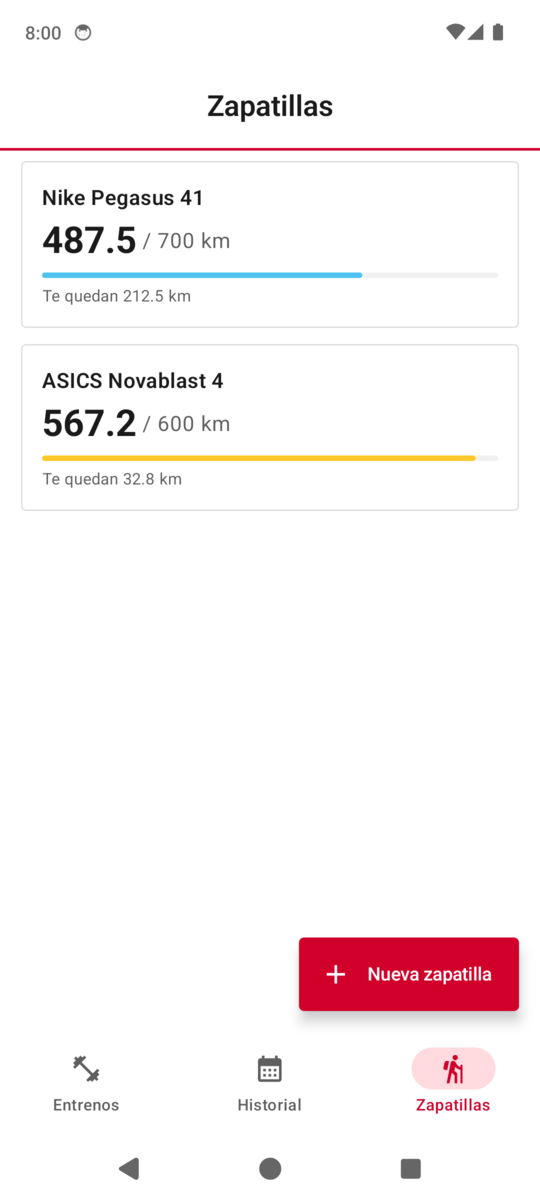
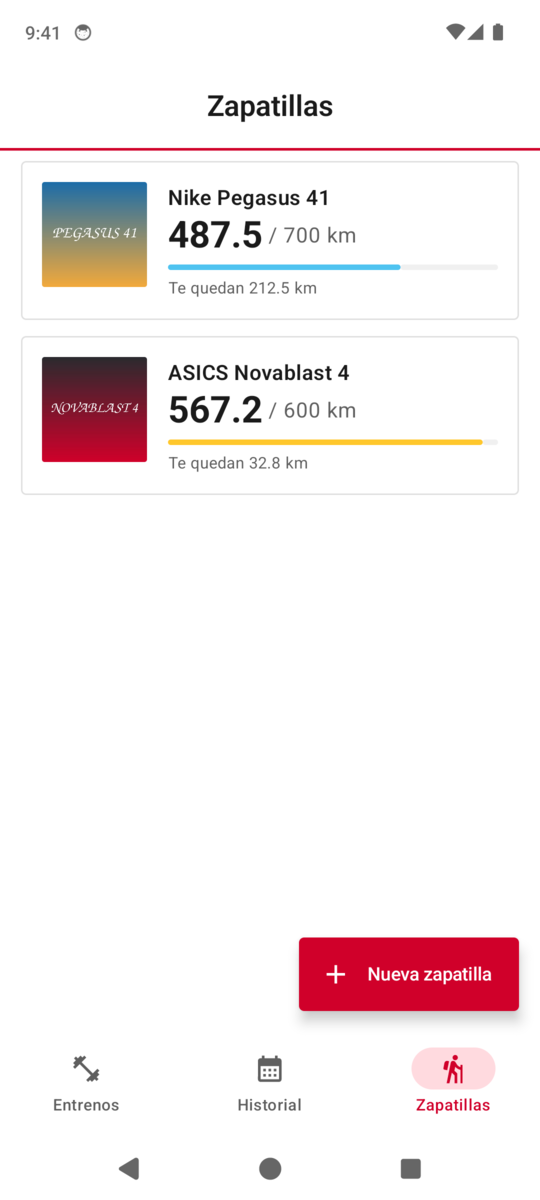
Foto del modelo en las fichas de zapatillas
La foto se elige con el selector del sistema (sin permisos) y se copia
reducida a almacenamiento interno, para que no dependa de la galería y se
pueda exportar más adelante. Se borran los archivos huérfanos al quitar,
cambiar o cancelar. Actualiza la captura del README y los datos de ejemplo.

Changed region(s): [[0.0593, 0.1233, 0.8889, 0.4317], [0.0593, 0.0, 0.1185, 0.0308]]

diff --git a/app/src/main/java/app/running/ui/ShoesScreen.kt b/app/src/main/java/app/running/ui/ShoesScreen.kt
@@ -1,6 +1,11 @@
 package app.running.ui
 
+import androidx.activity.compose.rememberLauncherForActivityResult
+import androidx.activity.result.PickVisualMediaRequest
+import androidx.activity.result.contract.ActivityResultContracts
 import androidx.compose.foundation.clickable
+import androidx.compose.foundation.rememberScrollState
+import androidx.compose.foundation.verticalScroll
 import androidx.compose.foundation.layout.*
 import androidx.compose.foundation.lazy.LazyColumn
 import androidx.compose.foundation.lazy.items
@@ -11,12 +16,18 @@ import androidx.compose.material3.*
 import androidx.compose.runtime.*
 import androidx.compose.ui.Alignment
 import androidx.compose.ui.Modifier
+import androidx.compose.ui.draw.clip
 import androidx.compose.ui.graphics.Color
+import androidx.compose.ui.platform.LocalContext
 import androidx.compose.ui.text.input.KeyboardType
 import androidx.compose.ui.text.style.TextAlign
 import androidx.compose.ui.unit.dp
 import androidx.lifecycle.compose.collectAsStateWithLifecycle
+import app.running.data.ShoePhotos
 import app.running.model.*
+import kotlinx.coroutines.Dispatchers
+import kotlinx.coroutines.launch
+import kotlinx.coroutines.withContext
 
 @OptIn(ExperimentalMaterial3Api::class)
 @Composable
@@ -82,38 +93,41 @@ private fun ShoeCard(shoe: Shoe, km: Double, onClick: () -> Unit) {
         else -> PolarBlue
     }
     PolarCard(Modifier.fillMaxWidth().clickable(onClick = onClick)) {
-        Column(Modifier.padding(16.dp)) {
-            Text(shoe.name, style = MaterialTheme.typography.titleMedium)
-            Spacer(Modifier.height(4.dp))
-            Row(verticalAlignment = Alignment.Bottom) {
-                Text(trimNumber(km, 1), style = StatNumber)
+        Row(Modifier.padding(16.dp)) {
+            ShoePhoto(shoe.photo, Modifier.size(80.dp).clip(MaterialTheme.shapes.small))
+            Spacer(Modifier.width(16.dp))
+            Column(Modifier.weight(1f)) {
+                Text(shoe.name, style = MaterialTheme.typography.titleMedium)
+                Row(verticalAlignment = Alignment.Bottom) {
+                    Text(trimNumber(km, 1), style = StatNumber)
+                    Text(
+                        " / ${trimNumber(shoe.limitKm, 0)} km",
+                        style = MaterialTheme.typography.bodyLarge,
+                        color = MaterialTheme.colorScheme.onSurfaceVariant,
+                        modifier = Modifier.padding(bottom = 4.dp),
+                    )
+                }
+                Spacer(Modifier.height(6.dp))
+                LinearProgressIndicator(
+                    progress = { ratio.coerceIn(0.0, 1.0).toFloat() },
+                    modifier = Modifier.fillMaxWidth(),
+                    color = barColor,
+                    trackColor = MaterialTheme.colorScheme.surfaceVariant,
+                    gapSize = 0.dp,
+                    drawStopIndicator = {},
+                )
+                Spacer(Modifier.height(6.dp))
                 Text(
-                    " / ${trimNumber(shoe.limitKm, 0)} km",
-                    style = MaterialTheme.typography.bodyLarge,
-                    color = MaterialTheme.colorScheme.onSurfaceVariant,
-                    modifier = Modifier.padding(bottom = 4.dp),
+                    when {
+                        shoe.retired -> "Retirada"
+                        ratio >= 1.0 -> "Límite superado por ${trimNumber(km - shoe.limitKm, 1)} km"
+                        else -> "Te quedan ${trimNumber(shoe.limitKm - km, 1)} km"
+                    },
+                    style = MaterialTheme.typography.bodySmall,
+                    color = if (ratio >= 1.0 && !shoe.retired) MaterialTheme.colorScheme.error
+                    else MaterialTheme.colorScheme.onSurfaceVariant,
                 )
             }
-            Spacer(Modifier.height(8.dp))
-            LinearProgressIndicator(
-                progress = { ratio.coerceIn(0.0, 1.0).toFloat() },
-                modifier = Modifier.fillMaxWidth(),
-                color = barColor,
-                trackColor = MaterialTheme.colorScheme.surfaceVariant,
-                gapSize = 0.dp,
-                drawStopIndicator = {},
-            )
-            Spacer(Modifier.height(6.dp))
-            Text(
-                when {
-                    shoe.retired -> "Retirada"
-                    ratio >= 1.0 -> "Límite superado por ${trimNumber(km - shoe.limitKm, 1)} km"
-                    else -> "Te quedan ${trimNumber(shoe.limitKm - km, 1)} km"
-                },
-                style = MaterialTheme.typography.bodySmall,
-                color = if (ratio >= 1.0 && !shoe.retired) MaterialTheme.colorScheme.error
-                else MaterialTheme.colorScheme.onSurfaceVariant,
-            )
         }
     }
 }
@@ -127,15 +141,47 @@ private fun ShoeDialog(initial: Shoe?, onDismiss: () -> Unit, onSave: (Shoe) -> 
     var initialKm by remember { mutableStateOf(initial?.initialKm?.let { if (it > 0) trimNumber(it, 1) else "" } ?: "") }
     var retired by remember { mutableStateOf(initial?.retired ?: false) }
     var confirmDelete by remember { mutableStateOf(false) }
+    var photo by remember { mutableStateOf(initial?.photo) }
+    var photoError by remember { mutableStateOf(false) }
+    val context = LocalContext.current
+    val scope = rememberCoroutineScope()
+
+    // Una foto elegida en este diálogo y aún no guardada es un archivo huérfano si se descarta o se reemplaza.
+    fun discardUnsavedPhoto() { if (photo != initial?.photo) ShoePhotos.delete(context, photo) }
+
+    val picker = rememberLauncherForActivityResult(ActivityResultContracts.PickVisualMedia()) { uri ->
+        if (uri != null) scope.launch {
+            val name = withContext(Dispatchers.IO) { ShoePhotos.import(context, uri) }
+            photoError = name == null
+            if (name != null) { discardUnsavedPhoto(); photo = name }
+        }
+    }
+    val dismiss = { discardUnsavedPhoto(); onDismiss() }
 
     val limitValue = parseKm(limit)?.takeIf { it > 0 }
     val initialValue = if (initialKm.isBlank()) 0.0 else parseKm(initialKm)
 
     AlertDialog(
-        onDismissRequest = onDismiss,
+        onDismissRequest = dismiss,
         title = { Text(if (initial == null) "Nueva zapatilla" else "Editar zapatilla") },
         text = {
-            Column(verticalArrangement = Arrangement.spacedBy(12.dp)) {
+            Column(Modifier.verticalScroll(rememberScrollState()), verticalArrangement = Arrangement.spacedBy(12.dp)) {
+                Row(verticalAlignment = Alignment.CenterVertically) {
+                    ShoePhoto(photo, Modifier.size(96.dp).clip(MaterialTheme.shapes.small))
+                    Spacer(Modifier.width(12.dp))
+                    Column {
+                        OutlinedButton(
+                            onClick = { picker.launch(PickVisualMediaRequest(ActivityResultContracts.PickVisualMedia.ImageOnly)) },
+                            shape = MaterialTheme.shapes.medium,
+                        ) { Text(if (photo == null) "Añadir foto" else "Cambiar foto") }
+                        if (photo != null) {
+                            TextButton(onClick = { discardUnsavedPhoto(); photo = null; photoError = false }) { Text("Quitar foto") }
+                        }
+                    }
+                }
+                if (photoError) {
+                    Text("No se pudo cargar la imagen.", color = MaterialTheme.colorScheme.error, style = MaterialTheme.typography.bodySmall)
+                }
                 OutlinedTextField(
                     value = name, onValueChange = { name = it }, label = { Text("Nombre (marca y modelo)") },
                     singleLine = true, modifier = Modifier.fillMaxWidth(),
@@ -168,13 +214,13 @@ private fun ShoeDialog(initial: Shoe?, onDismiss: () -> Unit, onSave: (Shoe) -> 
                 onClick = {
                     onSave(
                         (initial ?: Shoe(name = "", limitKm = 0.0)).copy(
-                            name = name.trim(), limitKm = limitValue!!, initialKm = initialValue!!, retired = retired,
+                            name = name.trim(), limitKm = limitValue!!, initialKm = initialValue!!, retired = retired, photo = photo,
                         ),
                     )
                 },
             ) { Text("Guardar") }
         },
-        dismissButton = { TextButton(onClick = onDismiss) { Text("Cancelar") } },
+        dismissButton = { TextButton(onClick = dismiss) { Text("Cancelar") } },
     )
 
     if (confirmDelete) {

diff --git a/app/src/main/java/app/running/data/ShoePhotos.kt b/app/src/main/java/app/running/data/ShoePhotos.kt
@@ -1,0 +1,68 @@
+package app.running.data
+
+import android.content.Context
+import android.graphics.Bitmap
+import android.graphics.BitmapFactory
+import android.graphics.Matrix
+import android.media.ExifInterface
+import android.net.Uri
+import java.io.File
+import java.util.UUID
+import kotlin.math.max
+
+/**
+ * Fotos de zapatillas. Se copian (reducidas) a almacenamiento interno de la app para que no dependan
+ * de la galería y puedan incluirse en una exportación. En el modelo solo se guarda el nombre del archivo.
+ */
+object ShoePhotos {
+    private const val DIR = "shoe-photos"
+    private const val MAX_SIDE = 960
+
+    fun dir(context: Context): File = File(context.filesDir, DIR).also { it.mkdirs() }
+
+    fun file(context: Context, name: String): File = File(dir(context), name)
+
+    /** Copia la imagen elegida a la carpeta interna. Devuelve el nombre del archivo, o null si no se pudo leer. */
+    fun import(context: Context, uri: Uri): String? = runCatching {
+        val resolver = context.contentResolver
+
+        val bounds = BitmapFactory.Options().apply { inJustDecodeBounds = true }
+        resolver.openInputStream(uri)!!.use { BitmapFactory.decodeStream(it, null, bounds) }
+        val longSide = max(bounds.outWidth, bounds.outHeight)
+        require(longSide > 0)
+
+        // Submuestreo grueso al decodificar para no cargar fotos de 12 MP enteras en memoria.
+        var sample = 1
+        while (longSide / (sample * 2) >= MAX_SIDE) sample *= 2
+        val decoded = resolver.openInputStream(uri)!!.use {
+            BitmapFactory.decodeStream(it, null, BitmapFactory.Options().apply { inSampleSize = sample })
+        }!!
+
+        val orientation = resolver.openInputStream(uri)?.use {
+            ExifInterface(it).getAttributeInt(ExifInterface.TAG_ORIENTATION, ExifInterface.ORIENTATION_NORMAL)
+        } ?: ExifInterface.ORIENTATION_NORMAL
+        val degrees = when (orientation) {
+            ExifInterface.ORIENTATION_ROTATE_90 -> 90f
+            ExifInterface.ORIENTATION_ROTATE_180 -> 180f
+            ExifInterface.ORIENTATION_ROTATE_270 -> 270f
+            else -> 0f
+        }
+        val scale = (MAX_SIDE.toFloat() / max(decoded.width, decoded.height)).coerceAtMost(1f)
+        val matrix = Matrix().apply { postRotate(degrees); postScale(scale, scale) }
+        val result = Bitmap.createBitmap(decoded, 0, 0, decoded.width, decoded.height, matrix, true)
+
+        val name = "${UUID.randomUUID()}.jpg"
+        val target = file(context, name)
+        try {
+            target.outputStream().use { result.compress(Bitmap.CompressFormat.JPEG, 85, it) }
+        } catch (e: Exception) {
+            target.delete()
+            throw e
+        }
+        name
+    }.getOrNull()
+
+    fun delete(context: Context, name: String?) {
+        if (name != null) file(context, name).delete()
+    }
+}

diff --git a/app/src/main/java/app/running/ui/ShoePhoto.kt b/app/src/main/java/app/running/ui/ShoePhoto.kt
@@ -1,0 +1,42 @@
+package app.running.ui
+
+import android.graphics.BitmapFactory
+import androidx.compose.foundation.Image
+import androidx.compose.foundation.background
+import androidx.compose.foundation.layout.Box
+import androidx.compose.foundation.layout.fillMaxSize
+import androidx.compose.material.icons.Icons
+import androidx.compose.material.icons.filled.Hiking
+import androidx.compose.material3.Icon
+import androidx.compose.material3.MaterialTheme
+import androidx.compose.runtime.Composable
+import androidx.compose.runtime.getValue
+import androidx.compose.runtime.produceState
+import androidx.compose.ui.Alignment
+import androidx.compose.ui.Modifier
+import androidx.compose.ui.graphics.ImageBitmap
+import androidx.compose.ui.graphics.asImageBitmap
+import androidx.compose.ui.layout.ContentScale
+import androidx.compose.ui.platform.LocalContext
+import app.running.data.ShoePhotos
+import kotlinx.coroutines.Dispatchers
+import kotlinx.coroutines.withContext
+
+/** Foto de una zapatilla; si no hay (o no se puede leer) muestra un icono sobre fondo gris. */
+@Composable
+fun ShoePhoto(photo: String?, modifier: Modifier = Modifier) {
+    val context = LocalContext.current
+    val bitmap by produceState<ImageBitmap?>(initialValue = null, photo) {
+        value = if (photo == null) null else withContext(Dispatchers.IO) {
+            runCatching { BitmapFactory.decodeFile(ShoePhotos.file(context, photo).path)?.asImageBitmap() }.getOrNull()
+        }
+    }
+    Box(modifier.background(MaterialTheme.colorScheme.surfaceVariant), contentAlignment = Alignment.Center) {
+        val img = bitmap
+        if (img != null) {
+            Image(img, contentDescription = "Foto de la zapatilla", modifier = Modifier.fillMaxSize(), contentScale = ContentScale.Crop)
+        } else {
+            Icon(Icons.Default.Hiking, contentDescription = null, tint = MaterialTheme.colorScheme.onSurfaceVariant)
+        }
+    }
+}

diff --git a/app/src/main/java/app/running/ui/WorkoutViewModel.kt b/app/src/main/java/app/running/ui/WorkoutViewModel.kt
@@ -6,6 +6,7 @@ import androidx.compose.runtime.getValue
 import androidx.compose.runtime.mutableStateOf
 import androidx.compose.runtime.setValue
 import app.running.data.JsonListStore
+import app.running.data.ShoePhotos
 import app.running.model.*
 import kotlinx.coroutines.flow.MutableStateFlow
 import kotlinx.coroutines.flow.StateFlow
@@ -27,8 +28,18 @@ class WorkoutViewModel(app: Application) : AndroidViewModel(app) {
     val alert: StateFlow<ShoeAlert?> = _alert
     fun dismissAlert() { _alert.value = null }
 
-    fun saveShoe(shoe: Shoe) = shoeStore.upsert(shoe)
-    fun deleteShoe(id: String) = shoeStore.delete(id)
+    fun saveShoe(shoe: Shoe) {
+        val oldPhoto = shoes.value.find { it.id == shoe.id }?.photo
+        shoeStore.upsert(shoe)
+        // La foto anterior queda huérfana si se ha cambiado o quitado.
+        if (oldPhoto != null && oldPhoto != shoe.photo) ShoePhotos.delete(getApplication(), oldPhoto)
+    }
+
+    fun deleteShoe(id: String) {
+        val photo = shoes.value.find { it.id == id }?.photo
+        shoeStore.delete(id)
+        ShoePhotos.delete(getApplication(), photo)
+    }
     fun deleteSession(id: String) = sessionStore.delete(id)
 
     fun addSession(session: Session) {

diff --git a/app/src/main/java/app/running/model/Gear.kt b/app/src/main/java/app/running/model/Gear.kt
@@ -11,6 +11,8 @@ data class Shoe(
     /** Km que ya llevaban antes de empezar a usar la app. */
     val initialKm: Double = 0.0,
     val retired: Boolean = false,
+    /** Nombre del archivo de la foto en `filesDir/shoe-photos/` (ver `ShoePhotos`). */
+    val photo: String? = null,
 )
 
 /** Una sesión realizada. Los km de cada zapatilla se derivan de estas sesiones. */

diff --git a/CLAUDE.md b/CLAUDE.md
@@ -28,9 +28,10 @@ adb shell am start -n app.running/.MainActivity
 Paquete `app.running` en `app/src/main/java/app/running/`:
 
 - `model/Workout.kt`: `Workout` → lista de `WorkoutItem`, que es `SingleItem` (un bloque) o `GroupItem` (×N repeticiones de varios bloques). `Block` = tipo (calentamiento, trabajo, recuperación, enfriamiento, descanso) + `EndCondition` (tiempo, distancia, manual) + `BlockTarget` opcional (ritmo, velocidad, pulsaciones). Calcula estimaciones: si hay ritmo o velocidad deduce el tiempo o la distancia que falta, y la UI lo marca con «≈».
-- `model/Gear.kt`: `Shoe` (límite de km, 700 por defecto; `initialKm` para km previos; `retired`) y `Session` (fecha, entreno opcional, zapatilla, distancia en metros). Los km de cada zapatilla **se derivan de las sesiones** con `Shoe.totalKm`; no se guardan acumulados.
+- `model/Gear.kt`: `Shoe` (límite de km, 700 por defecto; `initialKm` para km previos; `retired`; `photo` = nombre del archivo de la foto) y `Session` (fecha, entreno opcional, zapatilla, distancia en metros). Los km de cada zapatilla **se derivan de las sesiones** con `Shoe.totalKm`; no se guardan acumulados.
 - `model/Samples.kt`: entrenos de ejemplo (6×400, rodaje, fartlek, progresivo) para el botón «Cargar ejemplos».
 - `data/JsonListStore.kt`: persistencia genérica en JSON local (`filesDir`, escritura atómica vía `.tmp` + rename), expuesta como `StateFlow`. Migrable a Room si crece.
+- `data/ShoePhotos.kt`: las fotos de zapatillas se copian reducidas (máx. 960 px, JPEG, respetando EXIF) a `filesDir/shoe-photos/`; en el modelo solo va el nombre. Se eligen con el selector del sistema (`PickVisualMedia`, sin permisos). `ShoePhoto` (en `ui/`) las muestra con un icono si no hay. El ViewModel borra el archivo al quitar/cambiar la foto o borrar la zapatilla, y el diálogo borra la foto recién elegida si se cancela. La futura exportación debe incluir esta carpeta.
 - `ui/WorkoutViewModel.kt`: único ViewModel. Mantiene los stores de entrenos, zapatillas y sesiones, el borrador del editor (`_draft`) y el aviso de límite (`_alert`).
 - `ui/`: pantallas Compose (`WorkoutListScreen`, `WorkoutEditorScreen`, `BlockDialog`, `SessionsScreen`, `ShoesScreen`), barra de pestañas (`HomeBar`: Entrenos / Historial / Zapatillas), `MonthCalendar` (cuadrícula mensual desde el lunes), `Timeline` (cronograma de colores), `Format` y `Theme`. `SessionsScreen` es la pestaña **Historial**: calendario + resumen del mes + sesiones del día elegido, y el registro de sesión hereda el día seleccionado. Los nombres de meses y días usan `EsLocale` (español fijo, como el resto de textos).
 
@@ -46,7 +47,7 @@ Paquete `app.running` en `app/src/main/java/app/running/`:
 
 - Están en `docs/screenshots/` (`entrenos`, `editor`, `historial`, `zapatillas`; 540 px de ancho) y se muestran en el README.
 - **Al cambiar la interfaz de forma visible, regenerarlas** y, si se añade una pantalla importante, incluirla en el README.
-- Datos de ejemplo en `scripts/demo-data/` (`shoes.json`, `sessions.json`, fechas de noviembre de 2026). Para cargarlos en el emulador: `adb shell am force-stop app.running`, luego `adb shell "run-as app.running sh -c 'cat > files/shoes.json'" < scripts/demo-data/shoes.json` (igual con `sessions.json`) y abrir la app. Captura con `adb exec-out screencap -p` y reducir con `magick … -resize 540x`.
+- Datos de ejemplo en `scripts/demo-data/` (`shoes.json`, `sessions.json`, fechas de noviembre de 2026, y `photos/` con las imágenes de las zapatillas). Para cargarlos en el emulador: `adb shell am force-stop app.running`, luego `adb shell "run-as app.running sh -c 'cat > files/shoes.json'" < scripts/demo-data/shoes.json` (igual con `sessions.json`; las fotos van a `files/shoe-photos/<nombre>.jpg`) y abrir la app. Con `run-as`, los globs (`*`) hay que escaparlos dentro de comillas dobles o el shell del dispositivo los expande antes. Captura con `adb exec-out screencap -p` y reducir con `magick … -resize 540x`.
 - Si el mes actual ya no es noviembre de 2026, navegar al calendario a ese mes antes de capturar.
 
 ## Reglas de negocio a respetar

diff --git a/README.md b/README.md
@@ -16,7 +16,7 @@ App Android (Kotlin + Jetpack Compose) para crear entrenos por bloques, registra
 ## Funciones
 - **Entrenos por bloques**: calentamiento, trabajo, recuperación, enfriamiento y descanso, con repeticiones y objetivo opcional (ritmo, velocidad o pulsaciones).
 - **Historial en calendario**: sesiones por día, con km y resumen mensual.
-- **Zapatillas**: km acumulados con límite personalizable y aviso al acercarse o alcanzarlo.
+- **Zapatillas**: foto del modelo, km acumulados con límite personalizable y aviso al acercarse o alcanzarlo.
 
 ## Modelo
 - `Workout` → lista de `WorkoutItem`: `SingleItem` (un bloque) o `GroupItem` (×N repeticiones de varios bloques).
